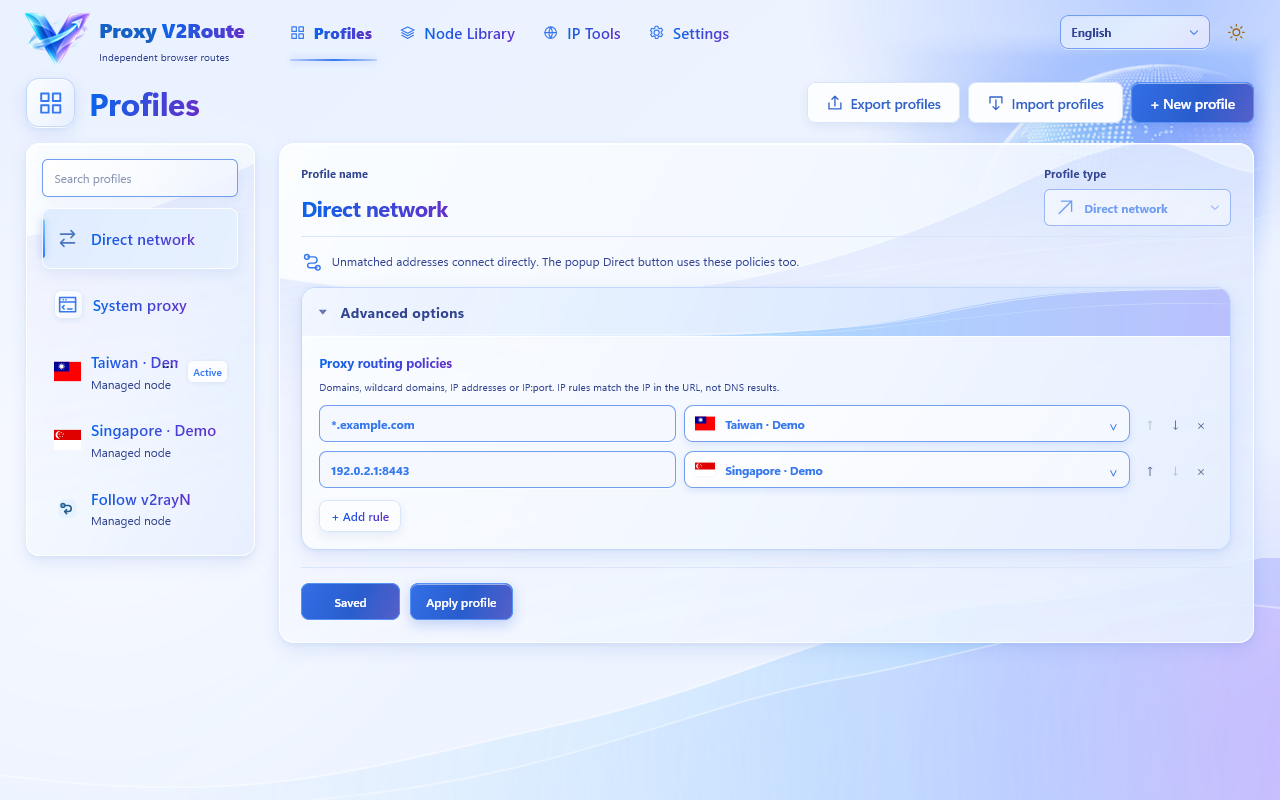
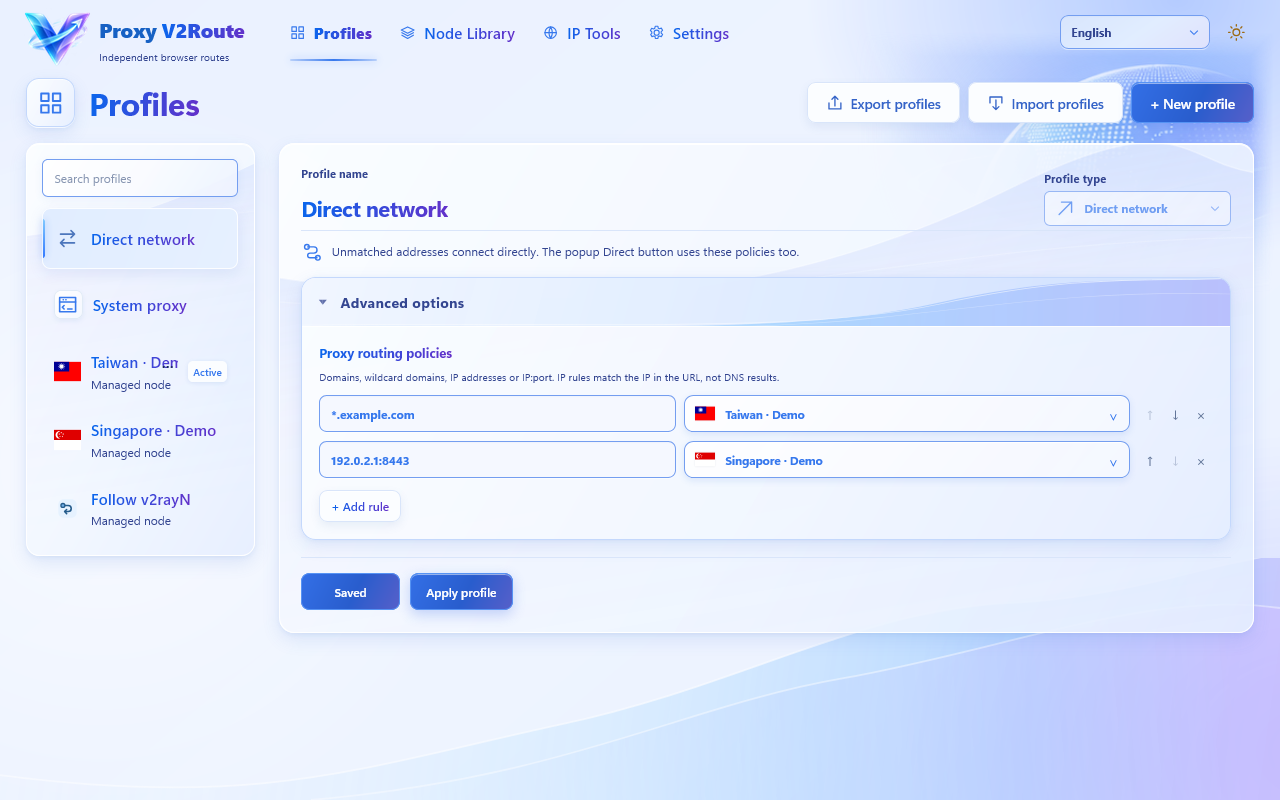
Release 1.2.68: align controls in the profile editor header

diff --git a/docs/privacy.html b/docs/privacy.html
@@ -1,2 +1,2 @@
 <!doctype html>
-<html lang="en"><head><meta charset="utf-8"><meta name="viewport" content="width=device-width,initial-scale=1"><meta name="description" content="Proxy V2Route privacy: local profile settings, local companion communication and no developer analytics."><title>Privacy · Proxy V2Route</title><link rel="stylesheet" href="site.css"></head><body><div class="shell"><header><a class="brand" href="index.html"><img src="brand-icon.png" alt="">Proxy V2Route</a><nav aria-label="Main navigation"><a href="index.html">Home / 首页</a><a href="index.html#install">Install / 安装</a><a href="mailto:1313333@gmail.com">Contact / 联系</a></nav></header><main><section class="hero"><span class="tag">1.2.67 · 2026-11-17</span><h1>Privacy, explained.</h1><p>What Proxy V2Route processes and where it stays.<span class="zh" lang="zh-CN">说明 Proxy V2Route 处理哪些信息，以及信息保存在哪里。</span></p></section><article class="card policy content"><p>Proxy V2Route’s use of user data complies with the <a href="https://developer.chrome.com/docs/webstore/program-policies/limited-use">Chrome Web Store User Data Policy</a>, including the Limited Use requirements.</p><p lang="zh-CN">Proxy V2Route 对用户数据的使用遵守 <a href="https://developer.chrome.com/docs/webstore/program-policies/limited-use">Chrome Web Store 用户数据政策</a>，包括 Limited Use（有限使用）要求。</p><h1>Privacy / 隐私</h1><p>Profiles and preferences stay in the browser; imported nodes and their credentials stay in the local companion. These records are not sent to the developer. Browser traffic follows the applied browser proxy. No analytics or result history is collected by the extension.</p><p>情景和界面偏好保存在浏览器中；导入节点及其账密保存在本机组件中，不上传给开发者。浏览器流量经过所选代理；扩展不收集统计，也不保留检测历史。</p><p>Export profiles includes the selected nodes&#x27; runtime configurations, credentials and resolved predecessor paths in a local JSON download. This also includes nodes scanned from the local client. Import restores those nodes to the destination&#x27;s private library with new local ports. Unused nodes, subscription URLs and tokens, local installation paths and measurement history are not included. Backups include each profile's last saved route and destination policies, including their addresses and referenced nodes. Saved configurations for its inactive basic, predecessor and chain modes stay in this browser and are not included in the portable backup. Backups are not encrypted; protect the downloaded file and share it only with trusted recipients.</p><p>导出情景会将所用节点的运行配置、账号密钥及完整前置链路写入本地下载的 JSON，也包含从本地客户端扫描的节点。导入后保存到目标电脑的私有节点库，并重新分配本地端口。不包含未使用节点、订阅链接和令牌、本机安装路径或检测历史。备份包含各情景最近保存的线路、策略匹配地址及所引用的节点；基础、前置和链式模式中未启用的已保存配置保留在当前浏览器，不包含在可迁移备份中。备份文件未加密，请妥善保管，仅向可信接收者提供。</p><p>Opening the popup or IP workspace, successfully switching routes, or requesting status triggers bounded exit-IP checks through ipify. Ping0 reports require optional site access. IP tools pre-fill the current browser exit IP; Globalping sends the displayed target to up to three probes in the selected region only after Start, including a China option. Probe availability varies; ICMP loss alone does not establish filtering. Domain checks use GreatFire. FAST.com is a separate embedded speed provider. Each provider receives normal connection data and handles it under its own privacy policy.</p><p>打开弹窗或 IP 工具页、成功切换线路或执行状态检查时，会向 ipify 发起有时限的出口 IP 检测。Ping0 报告需允许对应站点访问。IP 工具默认填写当前出口 IP；Globalping 点击开始才向所选区域的最多三个探针发送目标，支持选择中国；可用探针会变化，ICMP 丢包本身不能证明被墙。域名检测使用 GreatFire，FAST.com 为独立嵌入测速站点。服务商会接收常规连接信息，并按自身政策处理。</p><p>Website tests contact only selected, visible public homepages/icons after Start, with four concurrent credential-free requests at most. A response confirms browser reachability, not account access, HTTP success or regional unlocking. Timeouts and browser restrictions may produce an unconfirmed result.</p><p>网站列表点击开始后才检测当前分类中勾选的地址，最多四个并发请求、不携带账号凭据。收到响应不代表账号可用、HTTP 成功或地区解锁；超时和浏览器限制都可能导致无法确认。</p><p>Cloudflare speed tests use small HTTP latency samples and selected 10/50/100 MiB download/upload limits. Both mode transfers up to the selected size in each direction. Per-second rates and final results remain in dialog memory. Closing or hiding the page cancels local tests; already submitted remote measurements may finish at the provider.</p><p>Cloudflare 测速包含少量 HTTP 延迟样本，以及每项 10/50/100 MiB 的下载、上传上限。双向模式每个方向各使用所选流量。每秒速率和结果只保存在弹窗内存；关闭或隐藏页面会取消本地测试，已提交的远端测量可能仍在服务商处完成。</p><p>Optional scripting access may be used in a user-visible or background first-party Ping0 tab after a direct report read fails. The extension reads only bounded report text and original website links and never solves challenges, clicks verification controls, logs tokens or exports cookie values. If the background path is unavailable or verification is required, the original Ping0 page opens in a normal tab for the user. Verification remains user-controlled.</p><p>直接读取报告失败后，可选脚本权限仅用于用户可见或后台打开的 Ping0 原站标签页，读取有界的报告文字和原始官网链接；不点击验证、不代答验证、不记录或导出令牌或 Cookie。后台路径不可用或需要验证时，自动打开 Ping0 原网页新标签页，由用户自行完成验证。</p><p>A failed popup connectivity check does not prove the selected node is offline: the check endpoint, current browser proxy setting or browser restrictions may fail independently. 弹窗检测失败不等于节点离线，也可能是检测端点、浏览器代理设置或浏览器限制导致。</p><p>In basic, predecessor and chain modes, per-layer diagnostics run a separate temporary local core only after Test is clicked. They contact api.ipify.org through each cumulative path, do not change the active route and delete temporary credentials/configuration after each bounded probe. Results identify a failed path boundary, not proof that a single server is offline.</p><p>基础、前置和链式模式的逐层链路检测仅在点击检测后启动临时本地核心，通过各段累积路径访问 api.ipify.org；不更改当前使用线路，每次有时限的探测结束即清理临时配置和凭据。失败表示该路径边界未连通，不能单凭它断定某台服务器离线。</p><p>Closing an IP tool unloads its frame and cancels local requests. Chrome uses the browsingData permission to clear HTTP cache and CacheStorage for that tool's exact allowed origin, then waits before reopening. This also affects cached resources from the same origin in other tabs, but does not clear other sites or cookies, passwords, localStorage, IndexedDB or Service Worker registrations. Third-party CDN caches are not included. Firefox cannot safely scope this cache API, so it unloads the tool and reports that cache deletion is unsupported.</p><p>关闭 IP 工具会卸载网页并取消本地请求。Chrome 使用 browsingData 权限，仅清理该工具允许来源的 HTTP 缓存和 CacheStorage，重开前等待完成；同一来源在其他标签页的缓存也会受影响。不会清理其他网站、Cookie、密码、登录存储或 Service Worker 注册，也不包含外部 CDN 的缓存。Firefox 无法安全限定该缓存接口的站点范围，因此仅卸载工具并提示不支持缓存删除。</p><p>Node-library tests contact Cloudflare through the selected node and inherited predecessor chain. Full tests transfer the selected 10/25/50/100 MiB in each direction; group totals are shown before starting. Results stay in the open workspace. Temporary authenticated test cores and configuration are removed when the owned native session closes. Node lists and proxy credentials are not sent as test payloads.</p><p>节点库测速通过所选节点及其继承前置链路访问 Cloudflare。完整测速每个方向使用所选 10/25/50/100 MiB，开始前显示分组总量；结果仅保存在当前工作区内存。所属本地会话关闭时回收临时认证核心和配置；不会把节点列表或代理账密作为测速内容发送。</p><p>Subscription URLs and tokens are saved only in the private companion database. The extension stores only whether user-enabled updates exist and a shared browser alarm. Refresh contacts the subscription provider using the chosen policy; proxy-first attempts direct access only after the proxy attempt fails. The provider receives normal request information, including its subscription token and the network address used to reach it. Updates use the shared browser alarm.</p><p>订阅链接及令牌只保存于组件私有库；扩展只缓存是否启用自动更新并使用一个共享浏览器定时器。更新按所选策略请求订阅服务商，代理优先仅在代理失败后直连；服务商会接收其订阅令牌、请求信息和访问来源地址。更新使用共享浏览器定时器。</p></article></main><footer><span>Proxy V2Route · Independent project / 独立项目</span><a href="index.html">Back to Proxy V2Route / 返回首页</a></footer></div></body></html>
+<html lang="en"><head><meta charset="utf-8"><meta name="viewport" content="width=device-width,initial-scale=1"><meta name="description" content="Proxy V2Route privacy: local profile settings, local companion communication and no developer analytics."><title>Privacy · Proxy V2Route</title><link rel="stylesheet" href="site.css"></head><body><div class="shell"><header><a class="brand" href="index.html"><img src="brand-icon.png" alt="">Proxy V2Route</a><nav aria-label="Main navigation"><a href="index.html">Home / 首页</a><a href="index.html#install">Install / 安装</a><a href="mailto:1313333@gmail.com">Contact / 联系</a></nav></header><main><section class="hero"><span class="tag">1.2.68 · 2026-11-17</span><h1>Privacy, explained.</h1><p>What Proxy V2Route processes and where it stays.<span class="zh" lang="zh-CN">说明 Proxy V2Route 处理哪些信息，以及信息保存在哪里。</span></p></section><article class="card policy content"><p>Proxy V2Route’s use of user data complies with the <a href="https://developer.chrome.com/docs/webstore/program-policies/limited-use">Chrome Web Store User Data Policy</a>, including the Limited Use requirements.</p><p lang="zh-CN">Proxy V2Route 对用户数据的使用遵守 <a href="https://developer.chrome.com/docs/webstore/program-policies/limited-use">Chrome Web Store 用户数据政策</a>，包括 Limited Use（有限使用）要求。</p><h1>Privacy / 隐私</h1><p>Profiles and preferences stay in the browser; imported nodes and their credentials stay in the local companion. These records are not sent to the developer. Browser traffic follows the applied browser proxy. No analytics or result history is collected by the extension.</p><p>情景和界面偏好保存在浏览器中；导入节点及其账密保存在本机组件中，不上传给开发者。浏览器流量经过所选代理；扩展不收集统计，也不保留检测历史。</p><p>Export profiles includes the selected nodes&#x27; runtime configurations, credentials and resolved predecessor paths in a local JSON download. This also includes nodes scanned from the local client. Import restores those nodes to the destination&#x27;s private library with new local ports. Unused nodes, subscription URLs and tokens, local installation paths and measurement history are not included. Backups include each profile's last saved route and destination policies, including their addresses and referenced nodes. Saved configurations for its inactive basic, predecessor and chain modes stay in this browser and are not included in the portable backup. Backups are not encrypted; protect the downloaded file and share it only with trusted recipients.</p><p>导出情景会将所用节点的运行配置、账号密钥及完整前置链路写入本地下载的 JSON，也包含从本地客户端扫描的节点。导入后保存到目标电脑的私有节点库，并重新分配本地端口。不包含未使用节点、订阅链接和令牌、本机安装路径或检测历史。备份包含各情景最近保存的线路、策略匹配地址及所引用的节点；基础、前置和链式模式中未启用的已保存配置保留在当前浏览器，不包含在可迁移备份中。备份文件未加密，请妥善保管，仅向可信接收者提供。</p><p>Opening the popup or IP workspace, successfully switching routes, or requesting status triggers bounded exit-IP checks through ipify. Ping0 reports require optional site access. IP tools pre-fill the current browser exit IP; Globalping sends the displayed target to up to three probes in the selected region only after Start, including a China option. Probe availability varies; ICMP loss alone does not establish filtering. Domain checks use GreatFire. FAST.com is a separate embedded speed provider. Each provider receives normal connection data and handles it under its own privacy policy.</p><p>打开弹窗或 IP 工具页、成功切换线路或执行状态检查时，会向 ipify 发起有时限的出口 IP 检测。Ping0 报告需允许对应站点访问。IP 工具默认填写当前出口 IP；Globalping 点击开始才向所选区域的最多三个探针发送目标，支持选择中国；可用探针会变化，ICMP 丢包本身不能证明被墙。域名检测使用 GreatFire，FAST.com 为独立嵌入测速站点。服务商会接收常规连接信息，并按自身政策处理。</p><p>Website tests contact only selected, visible public homepages/icons after Start, with four concurrent credential-free requests at most. A response confirms browser reachability, not account access, HTTP success or regional unlocking. Timeouts and browser restrictions may produce an unconfirmed result.</p><p>网站列表点击开始后才检测当前分类中勾选的地址，最多四个并发请求、不携带账号凭据。收到响应不代表账号可用、HTTP 成功或地区解锁；超时和浏览器限制都可能导致无法确认。</p><p>Cloudflare speed tests use small HTTP latency samples and selected 10/50/100 MiB download/upload limits. Both mode transfers up to the selected size in each direction. Per-second rates and final results remain in dialog memory. Closing or hiding the page cancels local tests; already submitted remote measurements may finish at the provider.</p><p>Cloudflare 测速包含少量 HTTP 延迟样本，以及每项 10/50/100 MiB 的下载、上传上限。双向模式每个方向各使用所选流量。每秒速率和结果只保存在弹窗内存；关闭或隐藏页面会取消本地测试，已提交的远端测量可能仍在服务商处完成。</p><p>Optional scripting access may be used in a user-visible or background first-party Ping0 tab after a direct report read fails. The extension reads only bounded report text and original website links and never solves challenges, clicks verification controls, logs tokens or exports cookie values. If the background path is unavailable or verification is required, the original Ping0 page opens in a normal tab for the user. Verification remains user-controlled.</p><p>直接读取报告失败后，可选脚本权限仅用于用户可见或后台打开的 Ping0 原站标签页，读取有界的报告文字和原始官网链接；不点击验证、不代答验证、不记录或导出令牌或 Cookie。后台路径不可用或需要验证时，自动打开 Ping0 原网页新标签页，由用户自行完成验证。</p><p>A failed popup connectivity check does not prove the selected node is offline: the check endpoint, current browser proxy setting or browser restrictions may fail independently. 弹窗检测失败不等于节点离线，也可能是检测端点、浏览器代理设置或浏览器限制导致。</p><p>In basic, predecessor and chain modes, per-layer diagnostics run a separate temporary local core only after Test is clicked. They contact api.ipify.org through each cumulative path, do not change the active route and delete temporary credentials/configuration after each bounded probe. Results identify a failed path boundary, not proof that a single server is offline.</p><p>基础、前置和链式模式的逐层链路检测仅在点击检测后启动临时本地核心，通过各段累积路径访问 api.ipify.org；不更改当前使用线路，每次有时限的探测结束即清理临时配置和凭据。失败表示该路径边界未连通，不能单凭它断定某台服务器离线。</p><p>Closing an IP tool unloads its frame and cancels local requests. Chrome uses the browsingData permission to clear HTTP cache and CacheStorage for that tool's exact allowed origin, then waits before reopening. This also affects cached resources from the same origin in other tabs, but does not clear other sites or cookies, passwords, localStorage, IndexedDB or Service Worker registrations. Third-party CDN caches are not included. Firefox cannot safely scope this cache API, so it unloads the tool and reports that cache deletion is unsupported.</p><p>关闭 IP 工具会卸载网页并取消本地请求。Chrome 使用 browsingData 权限，仅清理该工具允许来源的 HTTP 缓存和 CacheStorage，重开前等待完成；同一来源在其他标签页的缓存也会受影响。不会清理其他网站、Cookie、密码、登录存储或 Service Worker 注册，也不包含外部 CDN 的缓存。Firefox 无法安全限定该缓存接口的站点范围，因此仅卸载工具并提示不支持缓存删除。</p><p>Node-library tests contact Cloudflare through the selected node and inherited predecessor chain. Full tests transfer the selected 10/25/50/100 MiB in each direction; group totals are shown before starting. Results stay in the open workspace. Temporary authenticated test cores and configuration are removed when the owned native session closes. Node lists and proxy credentials are not sent as test payloads.</p><p>节点库测速通过所选节点及其继承前置链路访问 Cloudflare。完整测速每个方向使用所选 10/25/50/100 MiB，开始前显示分组总量；结果仅保存在当前工作区内存。所属本地会话关闭时回收临时认证核心和配置；不会把节点列表或代理账密作为测速内容发送。</p><p>Subscription URLs and tokens are saved only in the private companion database. The extension stores only whether user-enabled updates exist and a shared browser alarm. Refresh contacts the subscription provider using the chosen policy; proxy-first attempts direct access only after the proxy attempt fails. The provider receives normal request information, including its subscription token and the network address used to reach it. Updates use the shared browser alarm.</p><p>订阅链接及令牌只保存于组件私有库；扩展只缓存是否启用自动更新并使用一个共享浏览器定时器。更新按所选策略请求订阅服务商，代理优先仅在代理失败后直连；服务商会接收其订阅令牌、请求信息和访问来源地址。更新使用共享浏览器定时器。</p></article></main><footer><span>Proxy V2Route · Independent project / 独立项目</span><a href="index.html">Back to Proxy V2Route / 返回首页</a></footer></div></body></html>

diff --git a/chrome-extension/v2route-ui/workspace-density.css b/chrome-extension/v2route-ui/workspace-density.css
@@ -272,7 +272,7 @@ body[data-page="ip-tools"] #page-intro,.ip-tools-layout :is(.muted,.ip-small,.ip
 .profile-name-label{font-size:13px;line-height:22px;margin:0;color:var(--muted)}
 .editor-heading .profile-name-row .rename-link{height:22px;min-height:22px!important;padding:0 6px!important;font-size:11px!important;line-height:18px!important;flex:none}
 .editor-heading .profile-name-row .rename-link[hidden]{display:none!important}
-.editor-heading{align-items:flex-start;min-height:96px}
+.editor-heading{--profile-heading-control-height:42px;align-items:flex-start;min-height:96px}
 .editor-heading .profile-name-row{display:grid;grid-template-columns:minmax(0,320px) max-content;gap:12px;height:44px;min-height:44px;align-items:center}
 .editor-heading:not(.editing-name) .profile-name-row{grid-template-columns:fit-content(320px) max-content;column-gap:20px;justify-content:start}
 .editor-heading .profile-name-row .profile-name-input{color:#3b50d7;caret-color:currentColor}
@@ -285,9 +285,11 @@ body[data-page="ip-tools"] #page-intro,.ip-tools-layout :is(.muted,.ip-small,.ip
 .editor-heading .profile-name-row h2{height:44px;line-height:44px;overflow:hidden;text-overflow:ellipsis;white-space:nowrap}
 .editor-heading .profile-name-row .profile-name-input{min-height:44px;height:44px;width:100%;margin:0;flex:0 1 320px}
 .editor-heading .profile-name-row .rename-link{grid-column:2;grid-row:1;justify-self:start}
-.editor-heading .heading-mode{align-self:flex-start;margin:0;gap:7px}
-.editor-heading .heading-mode .field-label{height:22px;line-height:22px}
-.editor-heading>.button{align-self:flex-start;margin-top:29px;height:44px}
+.editor-heading .heading-mode{align-self:flex-end;margin:0;gap:4px}
+.editor-heading .heading-mode :is(.profile-type-control,.profile-type-trigger){height:var(--profile-heading-control-height);min-height:var(--profile-heading-control-height)}
+.editor-heading .heading-mode .field-label{height:20px;line-height:20px}
+.editor-heading .heading-mode .profile-type-trigger{padding-block:5px}
+.editor-heading>.button{align-self:flex-end;margin-top:0;height:var(--profile-heading-control-height);min-height:var(--profile-heading-control-height)}
 .companion-settings>h2{display:flex;align-items:center;flex-wrap:wrap;gap:12px}
 .companion-settings>h2 .component-status{margin:0;min-height:0;font-size:12px;padding:4px 9px;line-height:20px}
 .import-examples pre.code-input{height:auto;min-height:0;max-height:none;overflow-x:auto;overflow-y:hidden;padding:8px 10px;line-height:1.5;margin:7px 0}
@@ -369,7 +371,7 @@ html:has(.ip-tool-dialog[open][data-expanded=true]){overflow:hidden}
 .predecessor-section.proxy-row .predecessor-node-field>.field-label{padding:0;font-size:13px}
 .predecessor-section.proxy-row .panel-info{grid-column:1/-1;grid-row:4;min-width:0;margin:0;padding:8px 0 0;border:0;border-top:1px solid var(--border);border-radius:0;box-shadow:none;background:none;font-size:12px;line-height:1.5}
 .predecessor-section.proxy-row:not(:has(.predecessor-node-field:not([hidden]))) .panel-info{grid-row:3}
-.profile-editor .editor-heading{min-height:86px;margin-bottom:16px}
+.profile-editor .editor-heading{min-height:0;row-gap:8px;margin-bottom:12px;padding-block-end:4px}
 .profile-editor .editor-actions{margin-top:20px;padding-top:18px}
 .profile-editor .editor-actions{justify-content:flex-start;gap:12px}
 .profile-editor .editor-actions .danger-text{margin:0}
@@ -453,10 +455,18 @@ html:has(.ip-tool-dialog[open][data-expanded=true]){overflow:hidden}
 .profile-list .profile-item .profile-symbol{width:34px;height:34px;flex:none}
 .profile-list .profile-item .profile-symbol svg{width:25px;height:25px}
 .profile-list .profile-item .active-label{font-size:12px;flex:none}
-.editor-heading .profile-chain-actions{align-self:flex-start;margin-top:23px;flex:0 1 auto;width:auto}
-.editor-heading .profile-chain-actions .chain-mode-actions{padding:4px;gap:5px;flex-wrap:nowrap;border-radius:14px}
-.editor-heading .profile-chain-actions .chain-mode-actions .button{height:46px;min-height:46px;padding:0 16px;font-size:15px;font-weight:650;white-space:nowrap;border-radius:10px}
+.editor-heading .profile-chain-actions{align-self:flex-end;flex:0 1 auto;width:auto;max-width:100%}
+.editor-heading .profile-chain-actions .chain-mode-actions{box-sizing:border-box;height:var(--profile-heading-control-height);max-width:100%;padding:0;gap:4px;flex-wrap:nowrap;border:0;border-radius:11px;box-shadow:inset 0 0 0 1px var(--panel-edge)}
+.editor-heading .profile-chain-actions .chain-mode-actions .button{height:100%;min-height:0;padding:0 16px;font-size:15px;font-weight:650;white-space:nowrap;border-radius:10px}
 @container profile-editor (max-width:1000px){.editor-heading .profile-chain-actions .chain-mode-actions .button{padding-inline:10px;font-size:14px}.editor-heading .profile-heading-name{flex-basis:160px}}
+@container profile-editor (max-width:800px){
+  .editor-heading:has(.profile-chain-actions:not([hidden])) .profile-heading-name{flex-basis:100%}
+}
+@container profile-editor (max-width:560px){
+  .editor-heading .profile-chain-actions{flex:1 1 100%}
+  .editor-heading .profile-chain-actions .chain-mode-actions .button{padding-inline:5px;white-space:normal;overflow-wrap:anywhere;line-height:1.2}
+  .editor-heading .heading-mode{flex:1 1 140px}
+}
 /* MTR compact columns: keep the address and location readable without reserving a
  * large empty spacer. Native MTR returns hop IPs only; location stays an honest
  * dash unless an upstream supplies a location field. */

diff --git a/firefox-extension/v2route-ui/workspace-density.css b/firefox-extension/v2route-ui/workspace-density.css
@@ -272,7 +272,7 @@ body[data-page="ip-tools"] #page-intro,.ip-tools-layout :is(.muted,.ip-small,.ip
 .profile-name-label{font-size:13px;line-height:22px;margin:0;color:var(--muted)}
 .editor-heading .profile-name-row .rename-link{height:22px;min-height:22px!important;padding:0 6px!important;font-size:11px!important;line-height:18px!important;flex:none}
 .editor-heading .profile-name-row .rename-link[hidden]{display:none!important}
-.editor-heading{align-items:flex-start;min-height:96px}
+.editor-heading{--profile-heading-control-height:42px;align-items:flex-start;min-height:96px}
 .editor-heading .profile-name-row{display:grid;grid-template-columns:minmax(0,320px) max-content;gap:12px;height:44px;min-height:44px;align-items:center}
 .editor-heading:not(.editing-name) .profile-name-row{grid-template-columns:fit-content(320px) max-content;column-gap:20px;justify-content:start}
 .editor-heading .profile-name-row .profile-name-input{color:#3b50d7;caret-color:currentColor}
@@ -285,9 +285,11 @@ body[data-page="ip-tools"] #page-intro,.ip-tools-layout :is(.muted,.ip-small,.ip
 .editor-heading .profile-name-row h2{height:44px;line-height:44px;overflow:hidden;text-overflow:ellipsis;white-space:nowrap}
 .editor-heading .profile-name-row .profile-name-input{min-height:44px;height:44px;width:100%;margin:0;flex:0 1 320px}
 .editor-heading .profile-name-row .rename-link{grid-column:2;grid-row:1;justify-self:start}
-.editor-heading .heading-mode{align-self:flex-start;margin:0;gap:7px}
-.editor-heading .heading-mode .field-label{height:22px;line-height:22px}
-.editor-heading>.button{align-self:flex-start;margin-top:29px;height:44px}
+.editor-heading .heading-mode{align-self:flex-end;margin:0;gap:4px}
+.editor-heading .heading-mode :is(.profile-type-control,.profile-type-trigger){height:var(--profile-heading-control-height);min-height:var(--profile-heading-control-height)}
+.editor-heading .heading-mode .field-label{height:20px;line-height:20px}
+.editor-heading .heading-mode .profile-type-trigger{padding-block:5px}
+.editor-heading>.button{align-self:flex-end;margin-top:0;height:var(--profile-heading-control-height);min-height:var(--profile-heading-control-height)}
 .companion-settings>h2{display:flex;align-items:center;flex-wrap:wrap;gap:12px}
 .companion-settings>h2 .component-status{margin:0;min-height:0;font-size:12px;padding:4px 9px;line-height:20px}
 .import-examples pre.code-input{height:auto;min-height:0;max-height:none;overflow-x:auto;overflow-y:hidden;padding:8px 10px;line-height:1.5;margin:7px 0}
@@ -369,7 +371,7 @@ html:has(.ip-tool-dialog[open][data-expanded=true]){overflow:hidden}
 .predecessor-section.proxy-row .predecessor-node-field>.field-label{padding:0;font-size:13px}
 .predecessor-section.proxy-row .panel-info{grid-column:1/-1;grid-row:4;min-width:0;margin:0;padding:8px 0 0;border:0;border-top:1px solid var(--border);border-radius:0;box-shadow:none;background:none;font-size:12px;line-height:1.5}
 .predecessor-section.proxy-row:not(:has(.predecessor-node-field:not([hidden]))) .panel-info{grid-row:3}
-.profile-editor .editor-heading{min-height:86px;margin-bottom:16px}
+.profile-editor .editor-heading{min-height:0;row-gap:8px;margin-bottom:12px;padding-block-end:4px}
 .profile-editor .editor-actions{margin-top:20px;padding-top:18px}
 .profile-editor .editor-actions{justify-content:flex-start;gap:12px}
 .profile-editor .editor-actions .danger-text{margin:0}
@@ -453,10 +455,18 @@ html:has(.ip-tool-dialog[open][data-expanded=true]){overflow:hidden}
 .profile-list .profile-item .profile-symbol{width:34px;height:34px;flex:none}
 .profile-list .profile-item .profile-symbol svg{width:25px;height:25px}
 .profile-list .profile-item .active-label{font-size:12px;flex:none}
-.editor-heading .profile-chain-actions{align-self:flex-start;margin-top:23px;flex:0 1 auto;width:auto}
-.editor-heading .profile-chain-actions .chain-mode-actions{padding:4px;gap:5px;flex-wrap:nowrap;border-radius:14px}
-.editor-heading .profile-chain-actions .chain-mode-actions .button{height:46px;min-height:46px;padding:0 16px;font-size:15px;font-weight:650;white-space:nowrap;border-radius:10px}
+.editor-heading .profile-chain-actions{align-self:flex-end;flex:0 1 auto;width:auto;max-width:100%}
+.editor-heading .profile-chain-actions .chain-mode-actions{box-sizing:border-box;height:var(--profile-heading-control-height);max-width:100%;padding:0;gap:4px;flex-wrap:nowrap;border:0;border-radius:11px;box-shadow:inset 0 0 0 1px var(--panel-edge)}
+.editor-heading .profile-chain-actions .chain-mode-actions .button{height:100%;min-height:0;padding:0 16px;font-size:15px;font-weight:650;white-space:nowrap;border-radius:10px}
 @container profile-editor (max-width:1000px){.editor-heading .profile-chain-actions .chain-mode-actions .button{padding-inline:10px;font-size:14px}.editor-heading .profile-heading-name{flex-basis:160px}}
+@container profile-editor (max-width:800px){
+  .editor-heading:has(.profile-chain-actions:not([hidden])) .profile-heading-name{flex-basis:100%}
+}
+@container profile-editor (max-width:560px){
+  .editor-heading .profile-chain-actions{flex:1 1 100%}
+  .editor-heading .profile-chain-actions .chain-mode-actions .button{padding-inline:5px;white-space:normal;overflow-wrap:anywhere;line-height:1.2}
+  .editor-heading .heading-mode{flex:1 1 140px}
+}
 /* MTR compact columns: keep the address and location readable without reserving a
  * large empty spacer. Native MTR returns hop IPs only; location stays an honest
  * dash unless an upstream supplies a location field. */

diff --git a/docs/index.html b/docs/index.html
@@ -17,7 +17,7 @@
 <noscript><p class="no-script">本页无需 JavaScript 也可阅读。<a href="https://github.com/VelumArc/ProxyV2Route/blob/main/README.en.md" lang="en">Read the English guide on GitHub</a>.</p></noscript>
 <main>
 <section class="hero">
-<div class="hero-copy"><p class="eyebrow"><span class="status-dot" aria-hidden="true"></span><span data-en="1.2.67 · Open source">1.2.67 · 开源</span></p><h1 id="content" tabindex="-1"><span data-en="Your browser.">你的浏览器。</span><br><span class="accent" data-en="Your own route.">你的独立线路。</span></h1></div>
+<div class="hero-copy"><p class="eyebrow"><span class="status-dot" aria-hidden="true"></span><span data-en="1.2.68 · Open source">1.2.68 · 开源</span></p><h1 id="content" tabindex="-1"><span data-en="Your browser.">你的浏览器。</span><br><span class="accent" data-en="Your own route.">你的独立线路。</span></h1></div>
 <div class="hero-intro"><p class="hero-lede" data-en="Give your browser its own proxy route, without changing v2rayN’s main route. Profiles, nodes and connection checks in one workspace.">无需切换 v2rayN 主线路，为浏览器选择自己的代理。将情景、节点与连接检测，收进一个工作区。</p><div class="actions"><a class="button" href="https://chromewebstore.google.com/detail/proxy-v2route/mngpdlmiimigbloccmolkjbcagonijlm" data-en="Install for Chrome">安装 Chrome 扩展</a><a class="text-link" href="#install"><span data-en="Get started">开始使用</span><span aria-hidden="true">↗</span></a><a class="text-link" href="https://github.com/VelumArc/ProxyV2Route"><span data-en="Explore the source">查看源码</span><span aria-hidden="true">→</span></a></div><p class="platforms">Windows 10/11 x64 <span aria-hidden="true">/</span> Chrome 120+ <span aria-hidden="true">/</span> Firefox 140+</p></div>
 </section>
 <figure class="workspace-preview">
@@ -45,7 +45,7 @@
 <li><span class="step-number">02</span><h3 data-en="Load the extension">加载浏览器扩展</h3><p data-en="Chrome: enable Developer mode and load the unpacked extension. Firefox: load the unsigned test add-on temporarily using about:debugging.">Chrome：开启开发者模式，加载已解压的扩展。Firefox：通过 about:debugging 临时加载未签名测试扩展。</p></li>
 <li><span class="step-number">03</span><h3 data-en="Choose and apply a route">选择线路并应用情景</h3><p data-en="Import your own nodes or locate v2rayN. Save a profile and apply it from the editor or toolbar. Check the connection in the workspace.">导入自己的节点，或定位 v2rayN。保存情景，在编辑器或工具栏应用，再从工作区查看连接情况。</p></li>
 </ol>
-<div class="actions"><a class="button" href="https://github.com/VelumArc/ProxyV2Route/releases/download/v1.2.67/Proxy-V2Route-Setup-1.2.67-Windows-x64.exe" data-en="Download Windows installer">下载 Windows 安装器</a><a class="text-link" href="https://github.com/VelumArc/ProxyV2Route/releases/tag/v1.2.67" data-en="Complete package & source">完整包与源码</a><a class="text-link" href="https://github.com/VelumArc/ProxyV2Route/blob/main/INSTALL.md" data-en="Installation guide">安装说明</a><a class="button subtle" href="https://github.com/VelumArc/ProxyV2Route/blob/main/SOURCES.md" data-en="Build from source">从源码构建</a><a class="text-link" href="https://github.com/VelumArc/ProxyV2Route/archive/refs/heads/main.zip" data-en="Download current source ZIP ↓">下载当前源码 ZIP ↓</a></div>
+<div class="actions"><a class="button" href="https://github.com/VelumArc/ProxyV2Route/releases/download/v1.2.68/Proxy-V2Route-Setup-1.2.68-Windows-x64.exe" data-en="Download Windows installer">下载 Windows 安装器</a><a class="text-link" href="https://github.com/VelumArc/ProxyV2Route/releases/tag/v1.2.68" data-en="Complete package & source">完整包与源码</a><a class="text-link" href="https://github.com/VelumArc/ProxyV2Route/blob/main/INSTALL.md" data-en="Installation guide">安装说明</a><a class="button subtle" href="https://github.com/VelumArc/ProxyV2Route/blob/main/SOURCES.md" data-en="Build from source">从源码构建</a><a class="text-link" href="https://github.com/VelumArc/ProxyV2Route/archive/refs/heads/main.zip" data-en="Download current source ZIP ↓">下载当前源码 ZIP ↓</a></div>
 </section>
 <section id="resources" class="section-block resources">
 <div class="section-heading"><div><p class="eyebrow" data-en="04 / DOCUMENTATION">04 / 使用与支持</p><h2 data-en="Details when you need them.">需要的细节，都有出处。</h2></div></div>

diff --git a/chrome-extension/v2route-ui/responsive-layout.css b/chrome-extension/v2route-ui/responsive-layout.css
@@ -91,10 +91,8 @@ select option, select optgroup { background-color: var(--surface); color: var(--
   gap: 9px;
   min-width: 142px;
   max-width: 100%;
-  min-height: 52px;
-  height: auto;
   margin-inline-start: auto;
-  padding: 10px 20px;
+  padding: 5px 20px;
   border: 1px solid color-mix(in srgb, var(--danger) 48%, var(--border));
   border-radius: 11px;
   background: linear-gradient(130deg, color-mix(in srgb, var(--danger) 4%, var(--surface)), color-mix(in srgb, var(--danger) 11%, var(--surface)));

diff --git a/firefox-extension/v2route-ui/responsive-layout.css b/firefox-extension/v2route-ui/responsive-layout.css
@@ -91,10 +91,8 @@ select option, select optgroup { background-color: var(--surface); color: var(--
   gap: 9px;
   min-width: 142px;
   max-width: 100%;
-  min-height: 52px;
-  height: auto;
   margin-inline-start: auto;
-  padding: 10px 20px;
+  padding: 5px 20px;
   border: 1px solid color-mix(in srgb, var(--danger) 48%, var(--border));
   border-radius: 11px;
   background: linear-gradient(130deg, color-mix(in srgb, var(--danger) 4%, var(--surface)), color-mix(in srgb, var(--danger) 11%, var(--surface)));

diff --git a/SetupLauncher.cs b/SetupLauncher.cs
@@ -49,7 +49,7 @@ sealed class SetupAction : Button {
 }
 
 static class SetupLauncher {
-    const string Version="1.2.67";
+    const string Version="1.2.68";
     const string Payload="V2Route.Payload.zip";
     static bool Embedded { get { return Array.IndexOf(Assembly.GetExecutingAssembly().GetManifestResourceNames(),Payload)>=0; } }
     static string Base { get { return AppDomain.CurrentDomain.BaseDirectory.TrimEnd(Path.DirectorySeparatorChar); } }

diff --git a/INSTALL.md b/INSTALL.md
@@ -1,10 +1,10 @@
 # 安装与升级 / Installation
 
-**Proxy V2Route 1.2.67** · Windows 10/11 x64 · .NET Framework 4.5.2+ · Chrome 120+ / Firefox 140+
+**Proxy V2Route 1.2.68** · Windows 10/11 x64 · .NET Framework 4.5.2+ · Chrome 120+ / Firefox 140+
 
-[Windows 安装器](https://github.com/VelumArc/ProxyV2Route/releases/download/v1.2.67/Proxy-V2Route-Setup-1.2.67-Windows-x64.exe) · [完整包与源码](https://github.com/VelumArc/ProxyV2Route/releases/tag/v1.2.67)。[从 Chrome 应用商店安装扩展](https://chromewebstore.google.com/detail/proxy-v2route/mngpdlmiimigbloccmolkjbcagonijlm)；Firefox 扩展未签名，供提交审核。自行打包见[来源与构建](SOURCES.md)。
+[Windows 安装器](https://github.com/VelumArc/ProxyV2Route/releases/download/v1.2.68/Proxy-V2Route-Setup-1.2.68-Windows-x64.exe) · [完整包与源码](https://github.com/VelumArc/ProxyV2Route/releases/tag/v1.2.68)。[从 Chrome 应用商店安装扩展](https://chromewebstore.google.com/detail/proxy-v2route/mngpdlmiimigbloccmolkjbcagonijlm)；Firefox 扩展未签名，供提交审核。自行打包见[来源与构建](SOURCES.md)。
 
-[Windows installer](https://github.com/VelumArc/ProxyV2Route/releases/download/v1.2.67/Proxy-V2Route-Setup-1.2.67-Windows-x64.exe) · [Complete package and source](https://github.com/VelumArc/ProxyV2Route/releases/tag/v1.2.67). [Install from the Chrome Web Store](https://chromewebstore.google.com/detail/proxy-v2route/mngpdlmiimigbloccmolkjbcagonijlm); Firefox is unsigned and prepared for submission. To build packages, see [SOURCES.md](SOURCES.md).
+[Windows installer](https://github.com/VelumArc/ProxyV2Route/releases/download/v1.2.68/Proxy-V2Route-Setup-1.2.68-Windows-x64.exe) · [Complete package and source](https://github.com/VelumArc/ProxyV2Route/releases/tag/v1.2.68). [Install from the Chrome Web Store](https://chromewebstore.google.com/detail/proxy-v2route/mngpdlmiimigbloccmolkjbcagonijlm); Firefox is unsigned and prepared for submission. To build packages, see [SOURCES.md](SOURCES.md).
 
 ## 本地组件 / Windows companion
 
@@ -18,13 +18,13 @@ Run the matching setup in a permanent writable folder and click Install. Python 
 
 ### Chrome
 
-解压 `Proxy-V2Route-Chrome-1.2.67.zip`，在 `chrome://extensions` 开启开发者模式，点击“加载已解压的扩展程序”，选择含 `manifest.json` 的目录。完整安装包中对应 `chrome-extension`。
+解压 `Proxy-V2Route-Chrome-1.2.68.zip`，在 `chrome://extensions` 开启开发者模式，点击“加载已解压的扩展程序”，选择含 `manifest.json` 的目录。完整安装包中对应 `chrome-extension`。
 
 Extract the Chrome ZIP to a permanent folder. Enable Developer mode at `chrome://extensions`, choose **Load unpacked** and select the directory containing `manifest.json`.
 
 ### Firefox
 
-当前测试包未签名。进入 `about:debugging` →“此 Firefox”→“临时载入附加组件”，选择 `Proxy-V2Route-Firefox-1.2.67-unsigned.xpi` 或 `firefox-extension/manifest.json`。临时加载在浏览器重启后失效，永久安装需要 Mozilla 签名。
+当前测试包未签名。进入 `about:debugging` →“此 Firefox”→“临时载入附加组件”，选择 `Proxy-V2Route-Firefox-1.2.68-unsigned.xpi` 或 `firefox-extension/manifest.json`。临时加载在浏览器重启后失效，永久安装需要 Mozilla 签名。
 
 Load the unsigned test XPI through `about:debugging` → **This Firefox** → **Load Temporary Add-on**. Temporary loading lasts until Firefox restarts. Permanent installation requires Mozilla signing.
 
@@ -77,9 +77,9 @@ Profile exports include the selected nodes, credentials and predecessor paths, i
 - **“重新检测”会更新核心吗？** 不会。它检查本机组件及固定版本核心的存在和校验状态，不查询上游最新版本。“安装/修复”恢复固定核心；更新请安装新版配套包。
   **Does Check again update the core?** No. It checks the local companion and the presence/checksum status of the pinned core, without querying the latest upstream release. Install/repair restores that pinned core; use a newer complete package to update.
 
-导入代理并同时新建分组需要 1.2.67 或更新版配套组件。本版安装器已包含。
-Importing proxies into a newly created group requires companion 1.2.67 or later, included in this installer.
+导入代理并同时新建分组需要 1.2.68 或更新版配套组件。本版安装器已包含。
+Importing proxies into a newly created group requires companion 1.2.68 or later, included in this installer.
 
-在情景列表中选择“直连网络”或“系统代理”可编辑快捷按钮的规则。直连只需填写指定代理策略。系统、节点与手动情景先检查绕过地址，再按从上到下的顺序使用第一条命中策略。以 `*.example.org` 匹配子域名，以 `192.0.2.10:8443` 仅匹配访问该 IP 和端口的请求。IP 规则不解析域名。带规则的系统代理在应用时读取 Windows 手动代理配置，系统使用 PAC 或自动发现时会提示无法应用。包含新版策略的备份需使用 1.2.67 或更高版本。
+在情景列表中选择“直连网络”或“系统代理”可编辑快捷按钮的规则。直连只需填写指定代理策略。系统、节点与手动情景先检查绕过地址，再按从上到下的顺序使用第一条命中策略。以 `*.example.org` 匹配子域名，以 `192.0.2.10:8443` 仅匹配访问该 IP 和端口的请求。IP 规则不解析域名。带规则的系统代理在应用时读取 Windows 手动代理配置，系统使用 PAC 或自动发现时会提示无法应用。包含新版策略的备份需使用 1.2.68 或更高版本。
 
-Edit Direct and System in Profiles to configure their toolbar shortcuts. Bypasses take priority over ordered proxy policies. Unmatched requests use the profile default. Use a bare IP or specify a port to narrow the match. System policies use a snapshot of manual Windows proxy settings and cannot be applied over PAC or auto-discovery. Restore policy backups with version 1.2.67 or later.
+Edit Direct and System in Profiles to configure their toolbar shortcuts. Bypasses take priority over ordered proxy policies. Unmatched requests use the profile default. Use a bare IP or specify a port to narrow the match. System policies use a snapshot of manual Windows proxy settings and cannot be applied over PAC or auto-discovery. Restore policy backups with version 1.2.68 or later.

diff --git a/README.ja.md b/README.ja.md
@@ -9,9 +9,9 @@
 
 ---
 
-**1.2.67** · Windows 10/11 x64 · .NET Framework 4.5.2+ · Chrome 120+ / Firefox 140+
+**1.2.68** · Windows 10/11 x64 · .NET Framework 4.5.2+ · Chrome 120+ / Firefox 140+
 
-> [Windows インストーラー](https://github.com/VelumArc/ProxyV2Route/releases/download/v1.2.67/Proxy-V2Route-Setup-1.2.67-Windows-x64.exe) · [完全パッケージとソースコード](https://github.com/VelumArc/ProxyV2Route/releases/tag/v1.2.67)。インストーラーにはローカル連携コンポーネントと Xray が含まれます。現在、コード署名はありません。Chrome 版は [Chrome ウェブストア](https://chromewebstore.google.com/detail/proxy-v2route/mngpdlmiimigbloccmolkjbcagonijlm) からインストールできます。Firefox 版は未署名で、常用には Mozilla による署名が必要です。
+> [Windows インストーラー](https://github.com/VelumArc/ProxyV2Route/releases/download/v1.2.68/Proxy-V2Route-Setup-1.2.68-Windows-x64.exe) · [完全パッケージとソースコード](https://github.com/VelumArc/ProxyV2Route/releases/tag/v1.2.68)。インストーラーにはローカル連携コンポーネントと Xray が含まれます。現在、コード署名はありません。Chrome 版は [Chrome ウェブストア](https://chromewebstore.google.com/detail/proxy-v2route/mngpdlmiimigbloccmolkjbcagonijlm) からインストールできます。Firefox 版は未署名で、常用には Mozilla による署名が必要です。
 
 直接接続とシステムプロキシはプロファイル一覧で編集でき、ツールバーからも同じルールが適用されます。ノードと手動プロキシの詳細設定では、除外先を優先し、次に最初に一致したプロキシルールを使います。どちらにも一致しない場合は既定の経路を使います。
 

diff --git a/README.es.md b/README.es.md
@@ -9,9 +9,9 @@
 
 ---
 
-**1.2.67** · Windows 10/11 x64 · .NET Framework 4.5.2+ · Chrome 120+ / Firefox 140+
+**1.2.68** · Windows 10/11 x64 · .NET Framework 4.5.2+ · Chrome 120+ / Firefox 140+
 
-> [Instalador para Windows](https://github.com/VelumArc/ProxyV2Route/releases/download/v1.2.67/Proxy-V2Route-Setup-1.2.67-Windows-x64.exe) · [Paquete completo y código fuente](https://github.com/VelumArc/ProxyV2Route/releases/tag/v1.2.67). El instalador incluye el componente local y Xray; actualmente no tiene firma de código. La extensión para Chrome está disponible en [Chrome Web Store](https://chromewebstore.google.com/detail/proxy-v2route/mngpdlmiimigbloccmolkjbcagonijlm). La extensión de Firefox aún no está firmada y necesita la firma de Mozilla para una instalación permanente.
+> [Instalador para Windows](https://github.com/VelumArc/ProxyV2Route/releases/download/v1.2.68/Proxy-V2Route-Setup-1.2.68-Windows-x64.exe) · [Paquete completo y código fuente](https://github.com/VelumArc/ProxyV2Route/releases/tag/v1.2.68). El instalador incluye el componente local y Xray; actualmente no tiene firma de código. La extensión para Chrome está disponible en [Chrome Web Store](https://chromewebstore.google.com/detail/proxy-v2route/mngpdlmiimigbloccmolkjbcagonijlm). La extensión de Firefox aún no está firmada y necesita la firma de Mozilla para una instalación permanente.
 
 Puedes editar la conexión directa y el proxy del sistema desde Perfiles. Los accesos de la barra de herramientas aplican las mismas reglas. En los perfiles de nodo y manuales, las exclusiones tienen prioridad. Después se aplica la primera regla coincidente o, en su defecto, la ruta predeterminada.
 

diff --git a/README.de.md b/README.de.md
@@ -9,9 +9,9 @@
 
 ---
 
-**1.2.67** · Windows 10/11 x64 · .NET Framework 4.5.2+ · Chrome 120+ / Firefox 140+
+**1.2.68** · Windows 10/11 x64 · .NET Framework 4.5.2+ · Chrome 120+ / Firefox 140+
 
-> [Windows-Installer](https://github.com/VelumArc/ProxyV2Route/releases/download/v1.2.67/Proxy-V2Route-Setup-1.2.67-Windows-x64.exe) · [Komplettpaket und Quellcode](https://github.com/VelumArc/ProxyV2Route/releases/tag/v1.2.67). Der Installer enthält die lokale Begleitkomponente und Xray und ist derzeit nicht codesigniert. Die Chrome-Erweiterung ist im [Chrome Web Store](https://chromewebstore.google.com/detail/proxy-v2route/mngpdlmiimigbloccmolkjbcagonijlm) erhältlich. Die Firefox-Erweiterung ist noch nicht signiert; eine dauerhafte Installation erfordert die Signatur von Mozilla.
+> [Windows-Installer](https://github.com/VelumArc/ProxyV2Route/releases/download/v1.2.68/Proxy-V2Route-Setup-1.2.68-Windows-x64.exe) · [Komplettpaket und Quellcode](https://github.com/VelumArc/ProxyV2Route/releases/tag/v1.2.68). Der Installer enthält die lokale Begleitkomponente und Xray und ist derzeit nicht codesigniert. Die Chrome-Erweiterung ist im [Chrome Web Store](https://chromewebstore.google.com/detail/proxy-v2route/mngpdlmiimigbloccmolkjbcagonijlm) erhältlich. Die Firefox-Erweiterung ist noch nicht signiert; eine dauerhafte Installation erfordert die Signatur von Mozilla.
 
 Direktverbindung und Systemproxy lassen sich in der Profilliste bearbeiten. Die Schaltflächen in der Symbolleiste verwenden dieselben Regeln. Bei Knoten- und manuellen Profilen haben Ausnahmen Vorrang. Danach gilt die erste passende Proxyregel, sonst die Standardroute.
 

diff --git a/README.en.md b/README.en.md
@@ -9,9 +9,9 @@
 
 ---
 
-**1.2.67** · Windows 10/11 x64 · .NET Framework 4.5.2+ · Chrome 120+ / Firefox 140+
+**1.2.68** · Windows 10/11 x64 · .NET Framework 4.5.2+ · Chrome 120+ / Firefox 140+
 
-> [Windows installer](https://github.com/VelumArc/ProxyV2Route/releases/download/v1.2.67/Proxy-V2Route-Setup-1.2.67-Windows-x64.exe) · [Complete package and source](https://github.com/VelumArc/ProxyV2Route/releases/tag/v1.2.67). The installer includes the local companion and Xray and is currently unsigned. Install the Chrome extension from the [Chrome Web Store](https://chromewebstore.google.com/detail/proxy-v2route/mngpdlmiimigbloccmolkjbcagonijlm); the Firefox add-on is unsigned and requires Mozilla signing for permanent installation.
+> [Windows installer](https://github.com/VelumArc/ProxyV2Route/releases/download/v1.2.68/Proxy-V2Route-Setup-1.2.68-Windows-x64.exe) · [Complete package and source](https://github.com/VelumArc/ProxyV2Route/releases/tag/v1.2.68). The installer includes the local companion and Xray and is currently unsigned. Install the Chrome extension from the [Chrome Web Store](https://chromewebstore.google.com/detail/proxy-v2route/mngpdlmiimigbloccmolkjbcagonijlm); the Firefox add-on is unsigned and requires Mozilla signing for permanent installation.
 
 Edit Direct and System in Profiles. Their toolbar shortcuts apply the same rules. For node and manual profiles, Advanced options checks bypass addresses first, then applies the first matching proxy policy. Remaining requests use the profile’s default route.
 
